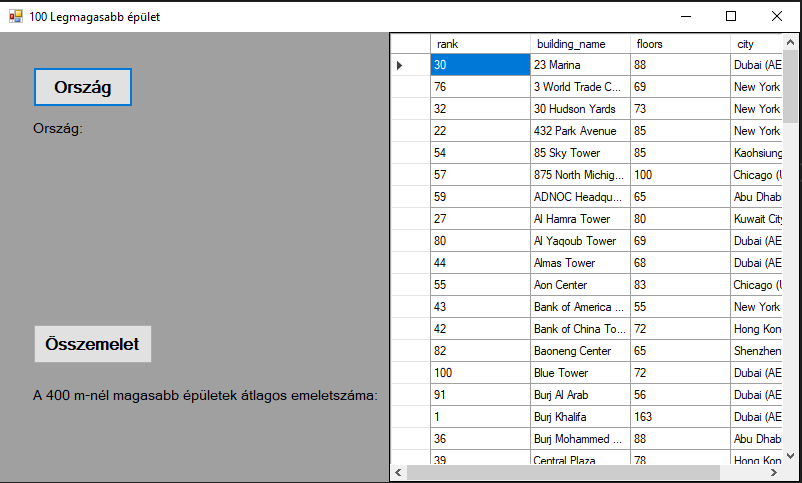
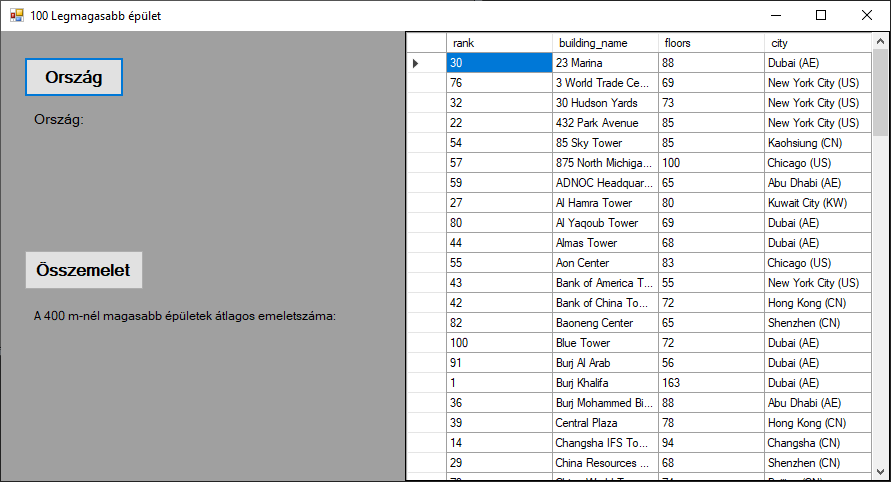
kép frissítve

diff --git a/WINFORM_TallestBuildings/Form1.Designer.cs b/WINFORM_TallestBuildings/Form1.Designer.cs
@@ -80,11 +80,13 @@
             // 
             // dataGridView1
             // 
+            this.dataGridView1.AutoSizeColumnsMode = System.Windows.Forms.DataGridViewAutoSizeColumnsMode.Fill;
+            this.dataGridView1.AutoSizeRowsMode = System.Windows.Forms.DataGridViewAutoSizeRowsMode.DisplayedCells;
             this.dataGridView1.ColumnHeadersHeightSizeMode = System.Windows.Forms.DataGridViewColumnHeadersHeightSizeMode.AutoSize;
             this.dataGridView1.Dock = System.Windows.Forms.DockStyle.Right;
-            this.dataGridView1.Location = new System.Drawing.Point(443, 0);
+            this.dataGridView1.Location = new System.Drawing.Point(404, 0);
             this.dataGridView1.Name = "dataGridView1";
-            this.dataGridView1.Size = new System.Drawing.Size(357, 450);
+            this.dataGridView1.Size = new System.Drawing.Size(485, 450);
             this.dataGridView1.TabIndex = 4;
             // 
             // Form1
@@ -92,7 +94,7 @@
             this.AutoScaleDimensions = new System.Drawing.SizeF(6F, 13F);
             this.AutoScaleMode = System.Windows.Forms.AutoScaleMode.Font;
             this.BackColor = System.Drawing.SystemColors.ControlDark;
-            this.ClientSize = new System.Drawing.Size(800, 450);
+            this.ClientSize = new System.Drawing.Size(889, 450);
             this.Controls.Add(this.dataGridView1);
             this.Controls.Add(this.label2);
             this.Controls.Add(this.label1);
